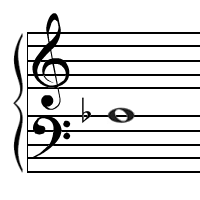
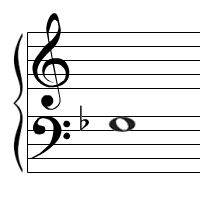
added some staff functionality

diff --git a/MusicalNoteTrainer/src/application/controller/XylophoneController.java b/MusicalNoteTrainer/src/application/controller/XylophoneController.java
@@ -106,38 +106,38 @@ public class XylophoneController {
 		/**
 		 * these handlers checks for key presses and if the correct button is pressed the note plays.  Loads in new images for the staff and instruments interaction keys, while sending the Multithreaded sound player the key pressed.
 		 */
-		Main.stage.addEventHandler(KeyEvent.KEY_PRESSED, (key) -> { if(key.getCode()==KeyCode.A && Main.currentStage.equals("Xylophone") ) { System.out.println("F2"); lastPressed = "F2"; notesRec++; Thread object = new Thread(new MultithreadingXylo()); object.start(); } }); 
-		Main.stage.addEventHandler(KeyEvent.KEY_PRESSED, (key) -> { if(key.getCode()==KeyCode.S && Main.currentStage.equals("Xylophone") ) { System.out.println("G2"); lastPressed = "G2"; notesRec++; Thread object = new Thread(new MultithreadingXylo()); object.start(); } }); 
-		Main.stage.addEventHandler(KeyEvent.KEY_PRESSED, (key) -> { if(key.getCode()==KeyCode.D && Main.currentStage.equals("Xylophone") ) { System.out.println("A2"); lastPressed = "A2"; notesRec++;Thread object = new Thread(new MultithreadingXylo()); object.start(); } }); 
-		Main.stage.addEventHandler(KeyEvent.KEY_PRESSED, (key) -> { if(key.getCode()==KeyCode.F && Main.currentStage.equals("Xylophone") ) { System.out.println("B2"); lastPressed = "B2";notesRec++; Thread object = new Thread(new MultithreadingXylo()); object.start(); } }); 
-		Main.stage.addEventHandler(KeyEvent.KEY_PRESSED, (key) -> { if(key.getCode()==KeyCode.G && Main.currentStage.equals("Xylophone") ) { System.out.println("C3"); lastPressed = "C3";notesRec++; Thread object = new Thread(new MultithreadingXylo()); object.start(); } }); 
-		Main.stage.addEventHandler(KeyEvent.KEY_PRESSED, (key) -> { if(key.getCode()==KeyCode.H && Main.currentStage.equals("Xylophone") ) { System.out.println("D3"); lastPressed = "D3";notesRec++; Thread object = new Thread(new MultithreadingXylo()); object.start(); } }); 
-		Main.stage.addEventHandler(KeyEvent.KEY_PRESSED, (key) -> { if(key.getCode()==KeyCode.J && Main.currentStage.equals("Xylophone") ) { System.out.println("E3"); lastPressed = "E3"; notesRec++;Thread object = new Thread(new MultithreadingXylo()); object.start(); } }); 
-		Main.stage.addEventHandler(KeyEvent.KEY_PRESSED, (key) -> { if(key.getCode()==KeyCode.K && Main.currentStage.equals("Xylophone") ) { System.out.println("F3"); lastPressed = "F3";notesRec++; Thread object = new Thread(new MultithreadingXylo()); object.start(); } }); 
-		Main.stage.addEventHandler(KeyEvent.KEY_PRESSED, (key) -> { if(key.getCode()==KeyCode.L && Main.currentStage.equals("Xylophone") ) { System.out.println("G3"); lastPressed = "G3";notesRec++; Thread object = new Thread(new MultithreadingXylo()); object.start(); } }); 
-		Main.stage.addEventHandler(KeyEvent.KEY_PRESSED, (key) -> { if(key.getCode()==KeyCode.Q && Main.currentStage.equals("Xylophone") ) { System.out.println("C1"); lastPressed = "C1"; notesRec++;Thread object = new Thread(new MultithreadingXylo()); object.start(); } }); 
-		Main.stage.addEventHandler(KeyEvent.KEY_PRESSED, (key) -> { if(key.getCode()==KeyCode.W && Main.currentStage.equals("Xylophone") ) { System.out.println("D1"); lastPressed = "D1";notesRec++; Thread object = new Thread(new MultithreadingXylo()); object.start(); } }); 
-		Main.stage.addEventHandler(KeyEvent.KEY_PRESSED, (key) -> { if(key.getCode()==KeyCode.E && Main.currentStage.equals("Xylophone") ) { System.out.println("E1"); lastPressed = "E1";notesRec++; Thread object = new Thread(new MultithreadingXylo()); object.start(); } }); 
-		Main.stage.addEventHandler(KeyEvent.KEY_PRESSED, (key) -> { if(key.getCode()==KeyCode.R && Main.currentStage.equals("Xylophone") ) { System.out.println("F1"); lastPressed = "F1";notesRec++; Thread object = new Thread(new MultithreadingXylo()); object.start(); } }); 
-		Main.stage.addEventHandler(KeyEvent.KEY_PRESSED, (key) -> { if(key.getCode()==KeyCode.T && Main.currentStage.equals("Xylophone") ) { System.out.println("G1"); lastPressed = "G1"; notesRec++;Thread object = new Thread(new MultithreadingXylo()); object.start(); } }); 
-		Main.stage.addEventHandler(KeyEvent.KEY_PRESSED, (key) -> { if(key.getCode()==KeyCode.Y && Main.currentStage.equals("Xylophone") ) { System.out.println("A1"); lastPressed = "A1";notesRec++; Thread object = new Thread(new MultithreadingXylo()); object.start(); } }); 
-		Main.stage.addEventHandler(KeyEvent.KEY_PRESSED, (key) -> { if(key.getCode()==KeyCode.U && Main.currentStage.equals("Xylophone") ) { System.out.println("B1"); lastPressed = "B1"; notesRec++;Thread object = new Thread(new MultithreadingXylo()); object.start(); } }); 
-		Main.stage.addEventHandler(KeyEvent.KEY_PRESSED, (key) -> { if(key.getCode()==KeyCode.I && Main.currentStage.equals("Xylophone") ) { System.out.println("C2"); lastPressed = "C2";notesRec++; Thread object = new Thread(new MultithreadingXylo()); object.start(); } }); 
-		Main.stage.addEventHandler(KeyEvent.KEY_PRESSED, (key) -> { if(key.getCode()==KeyCode.O && Main.currentStage.equals("Xylophone") ) { System.out.println("D2"); lastPressed = "D2";notesRec++; Thread object = new Thread(new MultithreadingXylo()); object.start(); } }); 
-		Main.stage.addEventHandler(KeyEvent.KEY_PRESSED, (key) -> { if(key.getCode()==KeyCode.P && Main.currentStage.equals("Xylophone") ) { System.out.println("E2"); lastPressed = "E2";notesRec++; Thread object = new Thread(new MultithreadingXylo()); object.start(); } }); 
-		Main.stage.addEventHandler(KeyEvent.KEY_PRESSED, (key) -> { if(key.getCode()==KeyCode.Z && Main.currentStage.equals("Xylophone") ) { System.out.println("C#1"); lastPressed = "C#1";notesRec++; Thread object = new Thread(new MultithreadingXylo()); object.start(); } }); 
-		Main.stage.addEventHandler(KeyEvent.KEY_PRESSED, (key) -> { if(key.getCode()==KeyCode.C && Main.currentStage.equals("Xylophone") ) { System.out.println("F#1"); lastPressed = "F#1";notesRec++; Thread object = new Thread(new MultithreadingXylo()); object.start(); } }); 
-		Main.stage.addEventHandler(KeyEvent.KEY_PRESSED, (key) -> { if(key.getCode()==KeyCode.X && Main.currentStage.equals("Xylophone") ) { System.out.println("D#1"); lastPressed = "D#1";notesRec++; Thread object = new Thread(new MultithreadingXylo()); object.start(); } }); 
-		Main.stage.addEventHandler(KeyEvent.KEY_PRESSED, (key) -> { if(key.getCode()==KeyCode.V && Main.currentStage.equals("Xylophone") ) { System.out.println("G#1"); lastPressed = "G#1";notesRec++; Thread object = new Thread(new MultithreadingXylo()); object.start(); } }); 
-		Main.stage.addEventHandler(KeyEvent.KEY_PRESSED, (key) -> { if(key.getCode()==KeyCode.B && Main.currentStage.equals("Xylophone") ) { System.out.println("A#1"); lastPressed = "A#1";notesRec++; Thread object = new Thread(new MultithreadingXylo()); object.start(); } }); 
-		Main.stage.addEventHandler(KeyEvent.KEY_PRESSED, (key) -> { if(key.getCode()==KeyCode.N && Main.currentStage.equals("Xylophone") ) { System.out.println("C#2"); lastPressed = "C#2";notesRec++; Thread object = new Thread(new MultithreadingXylo()); object.start(); } }); 
-		Main.stage.addEventHandler(KeyEvent.KEY_PRESSED, (key) -> { if(key.getCode()==KeyCode.M && Main.currentStage.equals("Xylophone") ) { System.out.println("D#2"); lastPressed = "D#2";notesRec++; Thread object = new Thread(new MultithreadingXylo()); object.start(); } }); 
-		Main.stage.addEventHandler(KeyEvent.KEY_PRESSED, (key) -> { if(key.getCode()==KeyCode.COMMA && Main.currentStage.equals("Xylophone") ) { System.out.println("F#2"); lastPressed = "F#2";notesRec++; Thread object = new Thread(new MultithreadingXylo()); object.start(); } }); 
-		Main.stage.addEventHandler(KeyEvent.KEY_PRESSED, (key) -> { if(key.getCode()==KeyCode.PERIOD && Main.currentStage.equals("Xylophone") ) { System.out.println("G#2"); lastPressed = "G#2";notesRec++; Thread object = new Thread(new MultithreadingXylo()); object.start(); } }); 
-		Main.stage.addEventHandler(KeyEvent.KEY_PRESSED, (key) -> { if(key.getCode()==KeyCode.SLASH && Main.currentStage.equals("Xylophone") ) { System.out.println("A#2"); lastPressed = "A#2";notesRec++; Thread object = new Thread(new MultithreadingXylo()); object.start(); } }); 
-		Main.stage.addEventHandler(KeyEvent.KEY_PRESSED, (key) -> { if(key.getCode()==KeyCode.SEMICOLON && Main.currentStage.equals("Xylophone") ) { System.out.println("C#3"); lastPressed = "C#3";notesRec++; Thread object = new Thread(new MultithreadingXylo()); object.start(); } }); 
-		Main.stage.addEventHandler(KeyEvent.KEY_PRESSED, (key) -> { if(key.getCode()==KeyCode.QUOTE && Main.currentStage.equals("Xylophone") ) { System.out.println("D#3"); lastPressed = "D#3";notesRec++; Thread object = new Thread(new MultithreadingXylo()); object.start(); } }); 
-		Main.stage.addEventHandler(KeyEvent.KEY_PRESSED, (key) -> { if(key.getCode()==KeyCode.OPEN_BRACKET && Main.currentStage.equals("Xylophone") ) { System.out.println("F#3"); lastPressed = "F#3";notesRec++; Thread object = new Thread(new MultithreadingXylo()); object.start(); } }); 
+		Main.stage.addEventHandler(KeyEvent.KEY_PRESSED, (key) -> { if(key.getCode()==KeyCode.A && Main.currentStage.equals("Xylophone") ) { System.out.println("F2"); lastPressed = "F2"; notesRec++; Thread object = new Thread(new MultithreadingXylo()); object.start(); staffXylo.setImage(new Image("Notes/F4Note.png"));} }); 
+		Main.stage.addEventHandler(KeyEvent.KEY_PRESSED, (key) -> { if(key.getCode()==KeyCode.S && Main.currentStage.equals("Xylophone") ) { System.out.println("G2"); lastPressed = "G2"; notesRec++; Thread object = new Thread(new MultithreadingXylo()); object.start(); staffXylo.setImage(new Image("Notes/G4Note.png"));} }); 
+		Main.stage.addEventHandler(KeyEvent.KEY_PRESSED, (key) -> { if(key.getCode()==KeyCode.D && Main.currentStage.equals("Xylophone") ) { System.out.println("A2"); lastPressed = "A2"; notesRec++;Thread object = new Thread(new MultithreadingXylo()); object.start(); staffXylo.setImage(new Image("Notes/A4Note.png"));} }); 
+		Main.stage.addEventHandler(KeyEvent.KEY_PRESSED, (key) -> { if(key.getCode()==KeyCode.F && Main.currentStage.equals("Xylophone") ) { System.out.println("B2"); lastPressed = "B2";notesRec++; Thread object = new Thread(new MultithreadingXylo()); object.start(); staffXylo.setImage(new Image("Notes/B4Note.png"));} }); 
+		Main.stage.addEventHandler(KeyEvent.KEY_PRESSED, (key) -> { if(key.getCode()==KeyCode.G && Main.currentStage.equals("Xylophone") ) { System.out.println("C3"); lastPressed = "C3";notesRec++; Thread object = new Thread(new MultithreadingXylo()); object.start(); staffXylo.setImage(new Image("Notes/C5Note.png"));} }); 
+		Main.stage.addEventHandler(KeyEvent.KEY_PRESSED, (key) -> { if(key.getCode()==KeyCode.H && Main.currentStage.equals("Xylophone") ) { System.out.println("D3"); lastPressed = "D3";notesRec++; Thread object = new Thread(new MultithreadingXylo()); object.start(); staffXylo.setImage(new Image("Notes/D5Note.png"));} }); 
+		Main.stage.addEventHandler(KeyEvent.KEY_PRESSED, (key) -> { if(key.getCode()==KeyCode.J && Main.currentStage.equals("Xylophone") ) { System.out.println("E3"); lastPressed = "E3"; notesRec++;Thread object = new Thread(new MultithreadingXylo()); object.start(); staffXylo.setImage(new Image("Notes/E5Note.png"));} }); 
+		Main.stage.addEventHandler(KeyEvent.KEY_PRESSED, (key) -> { if(key.getCode()==KeyCode.K && Main.currentStage.equals("Xylophone") ) { System.out.println("F3"); lastPressed = "F3";notesRec++; Thread object = new Thread(new MultithreadingXylo()); object.start(); staffXylo.setImage(new Image("Notes/F5Note.png"));} }); 
+		Main.stage.addEventHandler(KeyEvent.KEY_PRESSED, (key) -> { if(key.getCode()==KeyCode.L && Main.currentStage.equals("Xylophone") ) { System.out.println("G3"); lastPressed = "G3";notesRec++; Thread object = new Thread(new MultithreadingXylo()); object.start(); staffXylo.setImage(new Image("Notes/G5Note.png"));} }); 
+		Main.stage.addEventHandler(KeyEvent.KEY_PRESSED, (key) -> { if(key.getCode()==KeyCode.Q && Main.currentStage.equals("Xylophone") ) { System.out.println("C1"); lastPressed = "C1"; notesRec++;Thread object = new Thread(new MultithreadingXylo()); object.start(); staffXylo.setImage(new Image("Notes/C3Note.png"));} }); 
+		Main.stage.addEventHandler(KeyEvent.KEY_PRESSED, (key) -> { if(key.getCode()==KeyCode.W && Main.currentStage.equals("Xylophone") ) { System.out.println("D1"); lastPressed = "D1";notesRec++; Thread object = new Thread(new MultithreadingXylo()); object.start(); staffXylo.setImage(new Image("Notes/D3Note.png"));} }); 
+		Main.stage.addEventHandler(KeyEvent.KEY_PRESSED, (key) -> { if(key.getCode()==KeyCode.E && Main.currentStage.equals("Xylophone") ) { System.out.println("E1"); lastPressed = "E1";notesRec++; Thread object = new Thread(new MultithreadingXylo()); object.start(); staffXylo.setImage(new Image("Notes/E3Note.png"));} }); 
+		Main.stage.addEventHandler(KeyEvent.KEY_PRESSED, (key) -> { if(key.getCode()==KeyCode.R && Main.currentStage.equals("Xylophone") ) { System.out.println("F1"); lastPressed = "F1";notesRec++; Thread object = new Thread(new MultithreadingXylo()); object.start(); staffXylo.setImage(new Image("Notes/F3Note.png"));} }); 
+		Main.stage.addEventHandler(KeyEvent.KEY_PRESSED, (key) -> { if(key.getCode()==KeyCode.T && Main.currentStage.equals("Xylophone") ) { System.out.println("G1"); lastPressed = "G1"; notesRec++;Thread object = new Thread(new MultithreadingXylo()); object.start(); staffXylo.setImage(new Image("Notes/G3Note.png"));} }); 
+		Main.stage.addEventHandler(KeyEvent.KEY_PRESSED, (key) -> { if(key.getCode()==KeyCode.Y && Main.currentStage.equals("Xylophone") ) { System.out.println("A1"); lastPressed = "A1";notesRec++; Thread object = new Thread(new MultithreadingXylo()); object.start(); staffXylo.setImage(new Image("Notes/A3Note.png"));} }); 
+		Main.stage.addEventHandler(KeyEvent.KEY_PRESSED, (key) -> { if(key.getCode()==KeyCode.U && Main.currentStage.equals("Xylophone") ) { System.out.println("B1"); lastPressed = "B1"; notesRec++;Thread object = new Thread(new MultithreadingXylo()); object.start(); staffXylo.setImage(new Image("Notes/B3Note.png"));} }); 
+		Main.stage.addEventHandler(KeyEvent.KEY_PRESSED, (key) -> { if(key.getCode()==KeyCode.I && Main.currentStage.equals("Xylophone") ) { System.out.println("C2"); lastPressed = "C2";notesRec++; Thread object = new Thread(new MultithreadingXylo()); object.start(); staffXylo.setImage(new Image("Notes/C4Note.png"));} }); 
+		Main.stage.addEventHandler(KeyEvent.KEY_PRESSED, (key) -> { if(key.getCode()==KeyCode.O && Main.currentStage.equals("Xylophone") ) { System.out.println("D2"); lastPressed = "D2";notesRec++; Thread object = new Thread(new MultithreadingXylo()); object.start(); staffXylo.setImage(new Image("Notes/D4Note.png"));} }); 
+		Main.stage.addEventHandler(KeyEvent.KEY_PRESSED, (key) -> { if(key.getCode()==KeyCode.P && Main.currentStage.equals("Xylophone") ) { System.out.println("E2"); lastPressed = "E2";notesRec++; Thread object = new Thread(new MultithreadingXylo()); object.start(); staffXylo.setImage(new Image("Notes/E4Note.png"));} }); 
+		Main.stage.addEventHandler(KeyEvent.KEY_PRESSED, (key) -> { if(key.getCode()==KeyCode.Z && Main.currentStage.equals("Xylophone") ) { System.out.println("C#1"); lastPressed = "C#1";notesRec++; Thread object = new Thread(new MultithreadingXylo()); object.start(); staffXylo.setImage(new Image("Notes/D3FNote.png"));} }); 
+		Main.stage.addEventHandler(KeyEvent.KEY_PRESSED, (key) -> { if(key.getCode()==KeyCode.C && Main.currentStage.equals("Xylophone") ) { System.out.println("F#1"); lastPressed = "F#1";notesRec++; Thread object = new Thread(new MultithreadingXylo()); object.start(); staffXylo.setImage(new Image("Notes/G3FNote.png"));} }); 
+		Main.stage.addEventHandler(KeyEvent.KEY_PRESSED, (key) -> { if(key.getCode()==KeyCode.X && Main.currentStage.equals("Xylophone") ) { System.out.println("D#1"); lastPressed = "D#1";notesRec++; Thread object = new Thread(new MultithreadingXylo()); object.start(); staffXylo.setImage(new Image("Notes/E3FNote.png"));} }); 
+		Main.stage.addEventHandler(KeyEvent.KEY_PRESSED, (key) -> { if(key.getCode()==KeyCode.V && Main.currentStage.equals("Xylophone") ) { System.out.println("G#1"); lastPressed = "G#1";notesRec++; Thread object = new Thread(new MultithreadingXylo()); object.start(); staffXylo.setImage(new Image("Notes/A3FNote.png"));} }); 
+		Main.stage.addEventHandler(KeyEvent.KEY_PRESSED, (key) -> { if(key.getCode()==KeyCode.B && Main.currentStage.equals("Xylophone") ) { System.out.println("A#1"); lastPressed = "A#1";notesRec++; Thread object = new Thread(new MultithreadingXylo()); object.start(); staffXylo.setImage(new Image("Notes/B3FNote.png"));} }); 
+		Main.stage.addEventHandler(KeyEvent.KEY_PRESSED, (key) -> { if(key.getCode()==KeyCode.N && Main.currentStage.equals("Xylophone") ) { System.out.println("C#2"); lastPressed = "C#2";notesRec++; Thread object = new Thread(new MultithreadingXylo()); object.start(); staffXylo.setImage(new Image("Notes/D4FNote.png"));} }); 
+		Main.stage.addEventHandler(KeyEvent.KEY_PRESSED, (key) -> { if(key.getCode()==KeyCode.M && Main.currentStage.equals("Xylophone") ) { System.out.println("D#2"); lastPressed = "D#2";notesRec++; Thread object = new Thread(new MultithreadingXylo()); object.start(); staffXylo.setImage(new Image("Notes/E4FNote.png"));} }); 
+		Main.stage.addEventHandler(KeyEvent.KEY_PRESSED, (key) -> { if(key.getCode()==KeyCode.COMMA && Main.currentStage.equals("Xylophone") ) { System.out.println("F#2"); lastPressed = "F#2";notesRec++; Thread object = new Thread(new MultithreadingXylo()); object.start(); staffXylo.setImage(new Image("Notes/G4FNote.png"));} }); 
+		Main.stage.addEventHandler(KeyEvent.KEY_PRESSED, (key) -> { if(key.getCode()==KeyCode.PERIOD && Main.currentStage.equals("Xylophone") ) { System.out.println("G#2"); lastPressed = "G#2";notesRec++; Thread object = new Thread(new MultithreadingXylo()); object.start(); staffXylo.setImage(new Image("Notes/A4FNote.png"));} }); 
+		Main.stage.addEventHandler(KeyEvent.KEY_PRESSED, (key) -> { if(key.getCode()==KeyCode.SLASH && Main.currentStage.equals("Xylophone") ) { System.out.println("A#2"); lastPressed = "A#2";notesRec++; Thread object = new Thread(new MultithreadingXylo()); object.start(); staffXylo.setImage(new Image("Notes/B4FNote.png"));} }); 
+		Main.stage.addEventHandler(KeyEvent.KEY_PRESSED, (key) -> { if(key.getCode()==KeyCode.SEMICOLON && Main.currentStage.equals("Xylophone") ) { System.out.println("C#3"); lastPressed = "C#3";notesRec++; Thread object = new Thread(new MultithreadingXylo()); object.start(); staffXylo.setImage(new Image("Notes/D5FNote.png"));} }); 
+		Main.stage.addEventHandler(KeyEvent.KEY_PRESSED, (key) -> { if(key.getCode()==KeyCode.QUOTE && Main.currentStage.equals("Xylophone") ) { System.out.println("D#3"); lastPressed = "D#3";notesRec++; Thread object = new Thread(new MultithreadingXylo()); object.start(); staffXylo.setImage(new Image("Notes/E5FNote.png"));} }); 
+		Main.stage.addEventHandler(KeyEvent.KEY_PRESSED, (key) -> { if(key.getCode()==KeyCode.OPEN_BRACKET && Main.currentStage.equals("Xylophone") ) { System.out.println("F#3"); lastPressed = "F#3";notesRec++; Thread object = new Thread(new MultithreadingXylo()); object.start(); staffXylo.setImage(new Image("Notes/G5FNote.png"));} }); 
 		
 	}
 	/**
@@ -218,99 +218,99 @@ public class XylophoneController {
 	 */
 	@FXML private void handleC() throws ClassNotFoundException { notesRec++;  lastPressed = "C1"; Thread object = new Thread(new MultithreadingXylo()); object.start(); }
 	@FXML private void handleC1_entered() throws ClassNotFoundException { C.setImage(new Image("xylo_keys/piano_left2.png")); }
-	@FXML private void handleC1_exited() throws ClassNotFoundException { C.setImage(new Image("xylo_keys/xylokeys.png"));  }
+	@FXML private void handleC1_exited() throws ClassNotFoundException { C.setImage(new Image("xylo_keys/xylokeys.png"));  staffXylo.setImage(new Image("Notes/base.png"));}
 	@FXML private void handleD() throws ClassNotFoundException { notesRec++; lastPressed = "D1"; Thread object = new Thread(new MultithreadingXylo()); object.start(); }
 	@FXML private void handleD1_entered() throws ClassNotFoundException { D.setImage(new Image("xylo_keys/piano_left2.png")); }
-	@FXML private void handleD1_exited() throws ClassNotFoundException { D.setImage(new Image("xylo_keys/xylokeys.png"));  }
+	@FXML private void handleD1_exited() throws ClassNotFoundException { D.setImage(new Image("xylo_keys/xylokeys.png"));  staffXylo.setImage(new Image("Notes/base.png"));}
 	@FXML private void handleE() throws ClassNotFoundException { notesRec++; lastPressed = "E1"; Thread object = new Thread(new MultithreadingXylo()); object.start(); }
 	@FXML private void handleE1_entered() throws ClassNotFoundException { E.setImage(new Image("xylo_keys/piano_left2.png")); }
-	@FXML private void handleE1_exited() throws ClassNotFoundException { E.setImage(new Image("xylo_keys/xylokeys.png"));  }
+	@FXML private void handleE1_exited() throws ClassNotFoundException { E.setImage(new Image("xylo_keys/xylokeys.png"));  staffXylo.setImage(new Image("Notes/base.png"));}
 	@FXML private void handleF() throws ClassNotFoundException { notesRec++; lastPressed = "F1"; Thread object = new Thread(new MultithreadingXylo()); object.start(); }
 	@FXML private void handleF1_entered() throws ClassNotFoundException { F.setImage(new Image("xylo_keys/piano_left2.png")); }
-	@FXML private void handleF1_exited() throws ClassNotFoundException { F.setImage(new Image("xylo_keys/xylokeys.png"));  }
+	@FXML private void handleF1_exited() throws ClassNotFoundException { F.setImage(new Image("xylo_keys/xylokeys.png"));  staffXylo.setImage(new Image("Notes/base.png"));}
 	@FXML private void handleG() throws ClassNotFoundException { notesRec++; lastPressed = "G1"; Thread object = new Thread(new MultithreadingXylo()); object.start(); }
 	@FXML private void handleG1_entered() throws ClassNotFoundException { G.setImage(new Image("xylo_keys/piano_left2.png")); }
-	@FXML private void handleG1_exited() throws ClassNotFoundException { G.setImage(new Image("xylo_keys/xylokeys.png"));  }
+	@FXML private void handleG1_exited() throws ClassNotFoundException { G.setImage(new Image("xylo_keys/xylokeys.png"));  staffXylo.setImage(new Image("Notes/base.png"));}
 	@FXML private void handleA() throws ClassNotFoundException { notesRec++; lastPressed = "A1"; Thread object = new Thread(new MultithreadingXylo()); object.start(); }
 	@FXML private void handleA1_entered() throws ClassNotFoundException { A.setImage(new Image("xylo_keys/piano_left2.png")); }
-	@FXML private void handleA1_exited() throws ClassNotFoundException { A.setImage(new Image("xylo_keys/xylokeys.png"));  }
+	@FXML private void handleA1_exited() throws ClassNotFoundException { A.setImage(new Image("xylo_keys/xylokeys.png"));  staffXylo.setImage(new Image("Notes/base.png"));}
 	@FXML private void handleB() throws ClassNotFoundException { notesRec++; lastPressed = "B1"; Thread object = new Thread(new MultithreadingXylo()); object.start(); }
 	@FXML private void handleB1_entered() throws ClassNotFoundException { B.setImage(new Image("xylo_keys/piano_left2.png")); }
-	@FXML private void handleB1_exited() throws ClassNotFoundException { B.setImage(new Image("xylo_keys/xylokeys.png"));  }
+	@FXML private void handleB1_exited() throws ClassNotFoundException { B.setImage(new Image("xylo_keys/xylokeys.png"));  staffXylo.setImage(new Image("Notes/base.png"));}
 	@FXML private void handleC1() throws ClassNotFoundException { notesRec++; lastPressed = "C2"; Thread object = new Thread(new MultithreadingXylo()); object.start(); }
 	@FXML private void handleC2_entered() throws ClassNotFoundException { C1.setImage(new Image("xylo_keys/piano_left2.png")); }
-	@FXML private void handleC2_exited() throws ClassNotFoundException { C1.setImage(new Image("xylo_keys/xylokeys.png"));  }
+	@FXML private void handleC2_exited() throws ClassNotFoundException { C1.setImage(new Image("xylo_keys/xylokeys.png"));  staffXylo.setImage(new Image("Notes/base.png"));}
 	@FXML private void handleD1() throws ClassNotFoundException { notesRec++; lastPressed = "D2"; Thread object = new Thread(new MultithreadingXylo()); object.start(); }
 	@FXML private void handleD2_entered() throws ClassNotFoundException { D1.setImage(new Image("xylo_keys/piano_left2.png")); }
-	@FXML private void handleD2_exited() throws ClassNotFoundException { D1.setImage(new Image("xylo_keys/xylokeys.png"));  }
+	@FXML private void handleD2_exited() throws ClassNotFoundException { D1.setImage(new Image("xylo_keys/xylokeys.png"));  staffXylo.setImage(new Image("Notes/base.png"));}
 	@FXML private void handleE1() throws ClassNotFoundException { notesRec++; lastPressed = "E2"; Thread object = new Thread(new MultithreadingXylo()); object.start(); }	
 	@FXML private void handleE2_entered() throws ClassNotFoundException { E1.setImage(new Image("xylo_keys/piano_left2.png")); }
-	@FXML private void handleE2_exited() throws ClassNotFoundException { E1.setImage(new Image("xylo_keys/xylokeys.png"));  }
+	@FXML private void handleE2_exited() throws ClassNotFoundException { E1.setImage(new Image("xylo_keys/xylokeys.png"));  staffXylo.setImage(new Image("Notes/base.png"));}
 	@FXML private void handleF1() throws ClassNotFoundException { notesRec++; lastPressed = "F2"; Thread object = new Thread(new MultithreadingXylo()); object.start(); }
 	@FXML private void handleF2_entered() throws ClassNotFoundException { F1.setImage(new Image("xylo_keys/piano_left2.png")); }
-	@FXML private void handleF2_exited() throws ClassNotFoundException { F1.setImage(new Image("xylo_keys/xylokeys.png"));  }
+	@FXML private void handleF2_exited() throws ClassNotFoundException { F1.setImage(new Image("xylo_keys/xylokeys.png"));  staffXylo.setImage(new Image("Notes/base.png"));}
 	@FXML private void handleG1() throws ClassNotFoundException { notesRec++; lastPressed = "G2"; Thread object = new Thread(new MultithreadingXylo()); object.start(); }
 	@FXML private void handleG2_entered() throws ClassNotFoundException { G1.setImage(new Image("xylo_keys/piano_left2.png")); }
-	@FXML private void handleG2_exited() throws ClassNotFoundException { G1.setImage(new Image("xylo_keys/xylokeys.png"));  }
+	@FXML private void handleG2_exited() throws ClassNotFoundException { G1.setImage(new Image("xylo_keys/xylokeys.png"));  staffXylo.setImage(new Image("Notes/base.png"));}
 	@FXML private void handleA1() throws ClassNotFoundException { notesRec++; lastPressed = "A2"; Thread object = new Thread(new MultithreadingXylo()); object.start(); }
 	@FXML private void handleA2_entered() throws ClassNotFoundException { A1.setImage(new Image("xylo_keys/piano_left2.png")); }
-	@FXML private void handleA2_exited() throws ClassNotFoundException { A1.setImage(new Image("xylo_keys/xylokeys.png"));  }
+	@FXML private void handleA2_exited() throws ClassNotFoundException { A1.setImage(new Image("xylo_keys/xylokeys.png"));  staffXylo.setImage(new Image("Notes/base.png"));}
 	@FXML private void handleB1() throws ClassNotFoundException { notesRec++; lastPressed = "B2"; Thread object = new Thread(new MultithreadingXylo()); object.start(); }
 	@FXML private void handleB2_entered() throws ClassNotFoundException { B1.setImage(new Image("xylo_keys/piano_left2.png")); }
-	@FXML private void handleB2_exited() throws ClassNotFoundException { B1.setImage(new Image("xylo_keys/xylokeys.png"));  }
+	@FXML private void handleB2_exited() throws ClassNotFoundException { B1.setImage(new Image("xylo_keys/xylokeys.png"));  staffXylo.setImage(new Image("Notes/base.png"));}
 	@FXML private void handleC2() throws ClassNotFoundException { notesRec++; lastPressed = "C3"; Thread object = new Thread(new MultithreadingXylo()); object.start(); }
 	@FXML private void handleC3_entered() throws ClassNotFoundException { C2.setImage(new Image("xylo_keys/piano_left2.png")); }
-	@FXML private void handleC3_exited() throws ClassNotFoundException { C2.setImage(new Image("xylo_keys/xylokeys.png"));  }
+	@FXML private void handleC3_exited() throws ClassNotFoundException { C2.setImage(new Image("xylo_keys/xylokeys.png"));  staffXylo.setImage(new Image("Notes/base.png"));}
 	@FXML private void handleD2()throws ClassNotFoundException { notesRec++; lastPressed = "D3"; Thread object = new Thread(new MultithreadingXylo()); object.start(); }
 	@FXML private void handleD3_entered() throws ClassNotFoundException { D2.setImage(new Image("xylo_keys/piano_left2.png")); }
-	@FXML private void handleD3_exited() throws ClassNotFoundException { D2.setImage(new Image("xylo_keys/xylokeys.png"));  }
+	@FXML private void handleD3_exited() throws ClassNotFoundException { D2.setImage(new Image("xylo_keys/xylokeys.png"));  staffXylo.setImage(new Image("Notes/base.png"));}
 	@FXML private void handleE2() throws ClassNotFoundException { notesRec++; lastPressed = "E3"; Thread object = new Thread(new MultithreadingXylo()); object.start(); }	
 	@FXML private void handleE3_entered() throws ClassNotFoundException { E2.setImage(new Image("xylo_keys/piano_left2.png")); }
-	@FXML private void handleE3_exited() throws ClassNotFoundException { E2.setImage(new Image("xylo_keys/xylokeys.png"));  }
+	@FXML private void handleE3_exited() throws ClassNotFoundException { E2.setImage(new Image("xylo_keys/xylokeys.png"));  staffXylo.setImage(new Image("Notes/base.png"));}
 	@FXML private void handleF2() throws ClassNotFoundException { notesRec++; lastPressed = "F3"; Thread object = new Thread(new MultithreadingXylo()); object.start(); }
 	@FXML private void handleF3_entered() throws ClassNotFoundException { F2.setImage(new Image("xylo_keys/piano_left2.png")); }
-	@FXML private void handleF3_exited() throws ClassNotFoundException { F2.setImage(new Image("xylo_keys/xylokeys.png"));  }
+	@FXML private void handleF3_exited() throws ClassNotFoundException { F2.setImage(new Image("xylo_keys/xylokeys.png"));  staffXylo.setImage(new Image("Notes/base.png"));}
 	@FXML private void handleG2() throws ClassNotFoundException { notesRec++; lastPressed = "G3"; Thread object = new Thread(new MultithreadingXylo()); object.start(); }	
 	@FXML private void handleG3_entered() throws ClassNotFoundException { G2.setImage(new Image("xylo_keys/piano_left2.png")); }
-	@FXML private void handleG3_exited() throws ClassNotFoundException { G2.setImage(new Image("xylo_keys/xylokeys.png"));  }
+	@FXML private void handleG3_exited() throws ClassNotFoundException { G2.setImage(new Image("xylo_keys/xylokeys.png"));  staffXylo.setImage(new Image("Notes/base.png"));}
 	@FXML private void handleCs1() throws ClassNotFoundException { notesRec++; lastPressed = "C#2"; Thread object = new Thread(new MultithreadingXylo()); object.start(); }	
 	@FXML private void handleCs2_entered() throws ClassNotFoundException { Cs1.setImage(new Image("xylo_keys/piano_left2.png")); }
-	@FXML private void handleCs2_exited() throws ClassNotFoundException { Cs1.setImage(new Image("xylo_keys/xylokeys.png"));  }
+	@FXML private void handleCs2_exited() throws ClassNotFoundException { Cs1.setImage(new Image("xylo_keys/xylokeys.png"));  staffXylo.setImage(new Image("Notes/base.png"));}
 	@FXML private void handleDs1() throws ClassNotFoundException { notesRec++; lastPressed = "D#2"; Thread object = new Thread(new MultithreadingXylo()); object.start(); }	
 	@FXML private void handleDs2_entered() throws ClassNotFoundException { Ds1.setImage(new Image("xylo_keys/piano_left2.png")); }
-	@FXML private void handleDs2_exited() throws ClassNotFoundException { Ds1.setImage(new Image("xylo_keys/xylokeys.png"));  }
+	@FXML private void handleDs2_exited() throws ClassNotFoundException { Ds1.setImage(new Image("xylo_keys/xylokeys.png"));  staffXylo.setImage(new Image("Notes/base.png"));}
 	@FXML private void handleFs1() throws ClassNotFoundException { notesRec++; lastPressed = "F#2"; Thread object = new Thread(new MultithreadingXylo()); object.start(); }
 	@FXML private void handleFs2_entered() throws ClassNotFoundException { Fs1.setImage(new Image("xylo_keys/piano_left2.png")); }
-	@FXML private void handleFs2_exited() throws ClassNotFoundException { Fs1.setImage(new Image("xylo_keys/xylokeys.png"));  }
+	@FXML private void handleFs2_exited() throws ClassNotFoundException { Fs1.setImage(new Image("xylo_keys/xylokeys.png"));  staffXylo.setImage(new Image("Notes/base.png"));}
 	@FXML private void handleGs1() throws ClassNotFoundException { notesRec++;  lastPressed = "G#2"; Thread object = new Thread(new MultithreadingXylo()); object.start(); }
 	@FXML private void handleGs2_entered() throws ClassNotFoundException { Gs1.setImage(new Image("xylo_keys/piano_left2.png")); }
-	@FXML private void handleGs2_exited() throws ClassNotFoundException { Gs1.setImage(new Image("xylo_keys/xylokeys.png"));  }
+	@FXML private void handleGs2_exited() throws ClassNotFoundException { Gs1.setImage(new Image("xylo_keys/xylokeys.png"));  staffXylo.setImage(new Image("Notes/base.png"));}
 	@FXML private void handleAs1() throws ClassNotFoundException { notesRec++; lastPressed = "A#2"; Thread object = new Thread(new MultithreadingXylo()); object.start(); }
 	@FXML private void handleAs2_entered() throws ClassNotFoundException { As1.setImage(new Image("xylo_keys/piano_left2.png")); }
-	@FXML private void handleAs2_exited() throws ClassNotFoundException { As1.setImage(new Image("xylo_keys/xylokeys.png"));  }
+	@FXML private void handleAs2_exited() throws ClassNotFoundException { As1.setImage(new Image("xylo_keys/xylokeys.png"));  staffXylo.setImage(new Image("Notes/base.png"));}
 	@FXML private void handleCs()throws ClassNotFoundException { notesRec++; lastPressed = "C#1"; Thread object = new Thread(new MultithreadingXylo()); object.start(); }	
 	@FXML private void handleCs1_entered() throws ClassNotFoundException { Cs.setImage(new Image("xylo_keys/piano_left2.png")); }
-	@FXML private void handleCs1_exited() throws ClassNotFoundException { Cs.setImage(new Image("xylo_keys/xylokeys.png"));  }
+	@FXML private void handleCs1_exited() throws ClassNotFoundException { Cs.setImage(new Image("xylo_keys/xylokeys.png"));  staffXylo.setImage(new Image("Notes/base.png"));}
 	@FXML private void handleDs()throws ClassNotFoundException { notesRec++; lastPressed = "D#1"; Thread object = new Thread(new MultithreadingXylo()); object.start(); }	
 	@FXML private void handleDs1_entered() throws ClassNotFoundException { Ds.setImage(new Image("xylo_keys/piano_left2.png")); }
-	@FXML private void handleDs1_exited() throws ClassNotFoundException { Ds.setImage(new Image("xylo_keys/xylokeys.png"));  }
+	@FXML private void handleDs1_exited() throws ClassNotFoundException { Ds.setImage(new Image("xylo_keys/xylokeys.png"));  staffXylo.setImage(new Image("Notes/base.png"));}
 	@FXML private void handleFs() throws ClassNotFoundException { notesRec++; lastPressed = "F#1"; Thread object = new Thread(new MultithreadingXylo()); object.start(); }
 	@FXML private void handleFs1_entered() throws ClassNotFoundException { Fs.setImage(new Image("xylo_keys/piano_left2.png")); }
-	@FXML private void handleFs1_exited() throws ClassNotFoundException { Fs.setImage(new Image("xylo_keys/xylokeys.png"));  }
+	@FXML private void handleFs1_exited() throws ClassNotFoundException { Fs.setImage(new Image("xylo_keys/xylokeys.png"));  staffXylo.setImage(new Image("Notes/base.png"));}
 	@FXML private void handleGs() throws ClassNotFoundException { notesRec++; lastPressed = "G#1"; Thread object = new Thread(new MultithreadingXylo()); object.start(); }
 	@FXML private void handleGs1_entered() throws ClassNotFoundException { Gs.setImage(new Image("xylo_keys/piano_left2.png")); }
-	@FXML private void handleGs1_exited() throws ClassNotFoundException { Gs.setImage(new Image("xylo_keys/xylokeys.png"));  }
+	@FXML private void handleGs1_exited() throws ClassNotFoundException { Gs.setImage(new Image("xylo_keys/xylokeys.png"));  staffXylo.setImage(new Image("Notes/base.png"));}
 	@FXML private void handleAs() throws ClassNotFoundException { notesRec++; lastPressed = "A#1"; Thread object = new Thread(new MultithreadingXylo()); object.start(); }
 	@FXML private void handleAs1_entered() throws ClassNotFoundException { As.setImage(new Image("xylo_keys/piano_left2.png")); }
-	@FXML private void handleAs1_exited() throws ClassNotFoundException { As.setImage(new Image("xylo_keys/xylokeys.png"));  }
+	@FXML private void handleAs1_exited() throws ClassNotFoundException { As.setImage(new Image("xylo_keys/xylokeys.png"));  staffXylo.setImage(new Image("Notes/base.png"));}
 	@FXML private void handleCs2() throws ClassNotFoundException { notesRec++; lastPressed = "C#3"; Thread object = new Thread(new MultithreadingXylo()); object.start(); }
 	@FXML private void handleCs3_entered() throws ClassNotFoundException { Cs2.setImage(new Image("xylo_keys/piano_left2.png")); }
-	@FXML private void handleCs3_exited() throws ClassNotFoundException { Cs2.setImage(new Image("xylo_keys/xylokeys.png"));  }
+	@FXML private void handleCs3_exited() throws ClassNotFoundException { Cs2.setImage(new Image("xylo_keys/xylokeys.png"));  staffXylo.setImage(new Image("Notes/base.png"));}
 	@FXML private void handleDs2() throws ClassNotFoundException { notesRec++; lastPressed = "D#3"; Thread object = new Thread(new MultithreadingXylo()); object.start(); }	
 	@FXML private void handleDs3_entered() throws ClassNotFoundException { Ds2.setImage(new Image("xylo_keys/piano_left2.png")); }
-	@FXML private void handleDs3_exited() throws ClassNotFoundException { Ds2.setImage(new Image("xylo_keys/xylokeys.png"));  }
+	@FXML private void handleDs3_exited() throws ClassNotFoundException { Ds2.setImage(new Image("xylo_keys/xylokeys.png"));  staffXylo.setImage(new Image("Notes/base.png"));}
 	@FXML private void handleFs3() throws ClassNotFoundException { notesRec++; lastPressed = "F#3"; Thread object = new Thread(new MultithreadingXylo()); object.start(); }
 	@FXML private void handleFs3_entered() throws ClassNotFoundException { Fs3.setImage(new Image("xylo_keys/piano_left2.png")); }
-	@FXML private void handleFs3_exited() throws ClassNotFoundException { Fs3.setImage(new Image("xylo_keys/xylokeys.png"));  }
+	@FXML private void handleFs3_exited() throws ClassNotFoundException { Fs3.setImage(new Image("xylo_keys/xylokeys.png"));  staffXylo.setImage(new Image("Notes/base.png"));}
 	
 }
